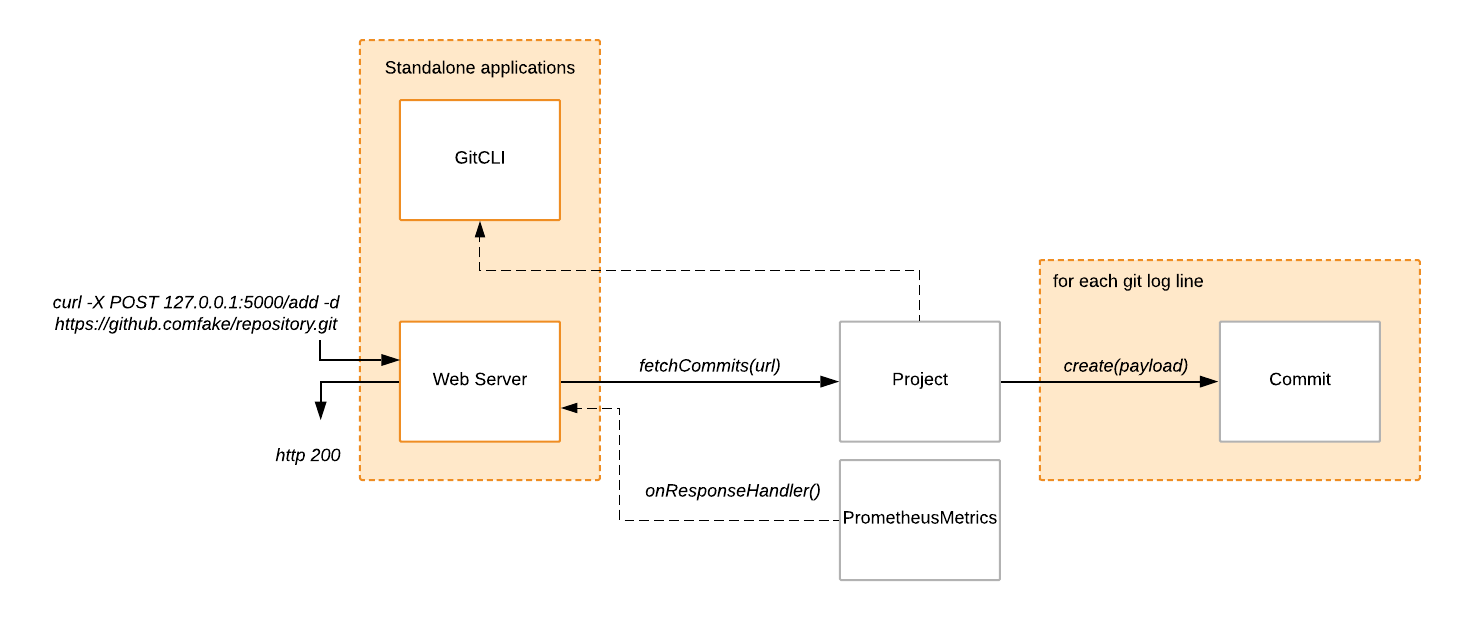
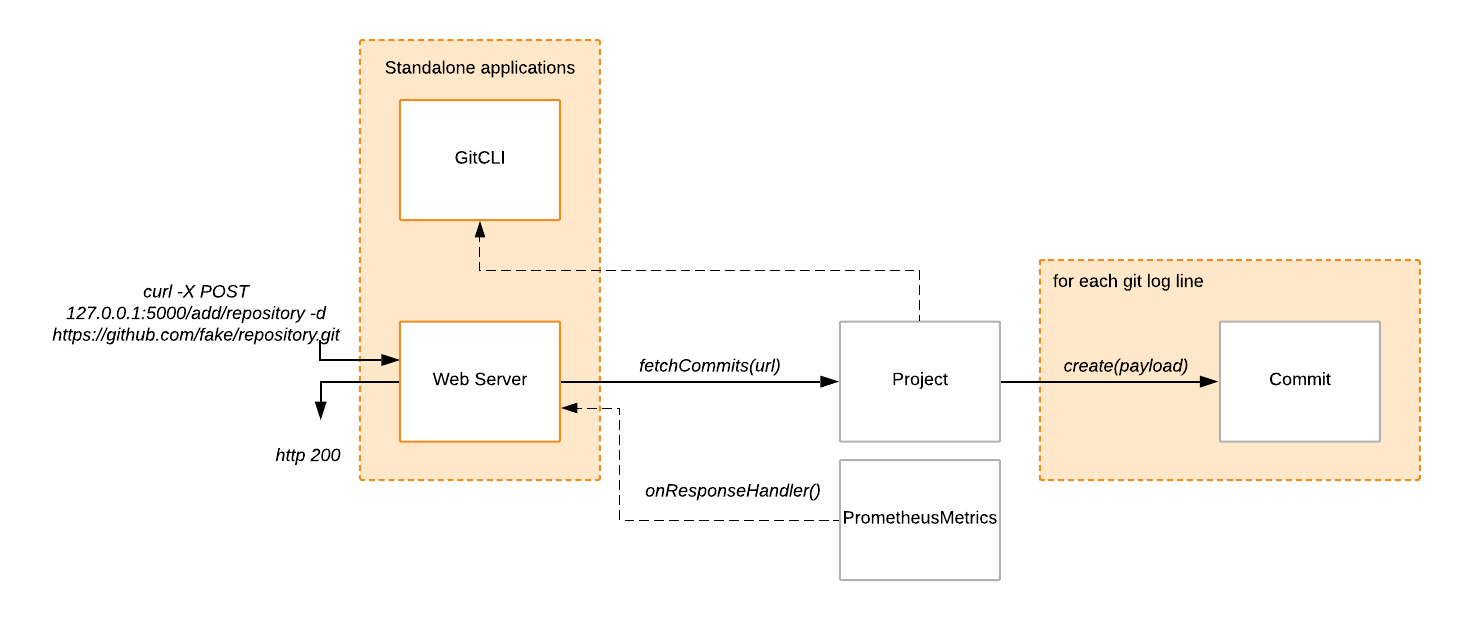
updated readme. updated static images.

Changed region(s): [[0.0308, 0.4597, 0.2466, 0.5516]]

diff --git a/README.md b/README.md
@@ -1,19 +1,19 @@
 # git-monitoring-server
 
 ## Architecture diagrams
-There are three parts to this project's architecture: the Git CLI application, the web server application, and the provisioning of both applications and infrastructure surrounding them.
+There are three parts to this project's architecture: the Git Command Line Interface (CLI) application, the web server application, and the provisioning of both applications and infrastructure surrounding them.
 
 I have chosen to use Python since it would allow me to quickly iterate on both applications, and it is easy to dockerise.
 
 ### Git CLI
-The first part of the challenge consists of implementing a cli wrapper for `git log` functionality.
-That can be done with just one class, invoking two standard git cli commands without resorting to any web API.
+The first part of the challenge consists of implementing a CLI wrapper for `git log` functionality.
+That can be done with just one class, invoking two standard git CLI commands without resorting to any web API.
 ![GitCLI](static/gitcli.png)
 Given an HTTP/HTTPS git repository url, the tool returns a list containing relevant git log information such as the hash, author name, date, and message of the retrieved commits.
 The implementation details are on the [next section](###GitCLI).
 
 ### Web Server
-By leveraging this cli wrapper, the server is then just another thin layer that models the retrieved data. Any commit will belong to a project with a given name and url. Therefore, we must be able to model this concept through Project and Commit classes respectively.
+By leveraging this CLI wrapper, the server is then just another thin layer that models the retrieved data. Any commit will belong to a project with a given name and url. Therefore, we must be able to model this concept through Project and Commit classes respectively.
 
 #### Adding a project
 <details>
@@ -22,8 +22,9 @@ As such, when we ask for the commits of a given project, we must create a Commit
 ![add](static/add.png)
 </details>
 
-#### Instrumenting and add request
+#### Instrumenting an add request
 <details>
+
 Since we are handling HTTP requests, we must instrument how many requests is our server receiving, and how long is it taking to dispatch them. `prometheus` is a time series based, metrics aggregating service that lets us record and plot that information. 
 For this to happen, we need to attach some method callbacks so that when our HTTP requests are received, and our responses returned, we record the appropriate metrics.
 This is done when the python server is first launched.
@@ -42,14 +43,15 @@ The implementation details are on the [next section](##Web%20Server).
 
 #### Listing a project
 <details>
+
 The only thing left to do is to view a given project that has been added.
-This can be done as html text or JSON. There are [two server endpoints](##Web%20Server) that do this respectively.
+This can be done as html text or JSON. There are [two server endpoints](###Web%20Server) that do this respectively.
 
 What the server does is look at it's internal Project dictionary. If a project with the same name exists, it returns the stored information. 
 ![list](static/listapi.png)
 If the project is not found internally, the server returns an HTTP 404, while displaying an error page. 
 
-This means that the information we are listing back to the user will be a cached version of the repository `git log`. If the user wants to refresh this information, [the project needs to be added again](####%20Adding%20a%20project).
+This means that the information we are listing back to the user will be a cached version of the repository `git log`. If the user wants to update the git information, [the project needs to be added again](####%20Adding%20a%20project).
 </details>
 
 #### The full picture
@@ -58,7 +60,7 @@ This image displays all of the non-infrastructural parts (i.e. application code)
 
 ### Provisioning
 Other than the application code, there is the infrastructure surrounding the web server that supports metric scraping and displaying.
-All of the infrastructure is terraformed and dockerised. Additional files exist to support the infrastructure, such as a custom `prometheus.yml` and a `grafana` `dashboard.json`, which are also provisioned through `terraform`.
+All of the infrastructure is terraformed and dockerised. Additional files exist to support the infrastructure, such as a custom `prometheus.yml` and a `grafana-dashboard.json`, which are also provisioned through `terraform`.
 ![terraform](static/provisioning.png)
 
 
@@ -70,9 +72,9 @@ You must install:
 * pip 18.1
 * terraform v0.12.5+
 * docker 18.09.6+
-* I had to follow [this post install checklist](https://docs.docker.com/install/linux/linux-postinstall/) to ensure that dockerd/docker service was running. After doing so, my `DOCKER_HOST` was pointing to `127.0.0.1:2375` which is the default docker host for `terraform`.
+* I had to follow [this Linux post install checklist](https://docs.docker.com/install/linux/linux-postinstall/) to ensure that `dockerd` was running. After doing so, my `DOCKER_HOST` was pointing to `127.0.0.1:2375` which is my default docker host address for `terraform`. If you are using anything other than Linux, please ensure that `dockerd` is running and configure `terraform` accordingly via `TF_VARS`.
 
-First you must install all the required dependencies to be able to run this projec locally.
+First you must install all the required dependencies to be able to run this project locally.
 ```
 pip3 install -r requirements.txt
 ```
@@ -81,13 +83,13 @@ This should install everything you need for [GitCLI.py]() and [server.py]() to w
 ## Files and Modules
 <details><summary>Application code files</summary>
 
-* GitCLI.py - Command line wrapper for git operations.
-* GitCLITest.py - Unit tests for GitCLI.py.
-* Commit.py - Data Transfer Object (DTO) which stores *hash, commiter name, date, and message* information.
-* Project.py - "Mediator" class between `Commit.py` and `GitCLI.py`. Creates commit objects by fetching the information through the cli, and stores them in a dictionary.
-* ProjectTest.py - Unit tests for Project.py.
+* [GitCLI.py]() - Command line wrapper for git operations.
+* [GitCLITest.py]() - Unit tests for GitCLI.py.
+* [Commit.py]() - Data Transfer Object (DTO) which stores *hash, commiter name, date, and message* information.
+* [Project.py]() - Mediator class between [Commit.py]() and [GitCLI.py](). Creates commit objects by fetching the information through the CLI, and stores them in a dictionary.
+* [ProjectTest.py]() - Unit tests for Project.py.
 * server.py - Stateful object that receives requests, through different routes (see below). It holds a dictionary of Project objects, each object being created after being added to the server.
-* `prometheus`Metrics.py - Helper class that records `prometheus` metrics per request received by the server.
+* [PrometheusMetrics.py]() - Helper class that records `prometheus` metrics per request received by the server.
 * [requirements.txt]() - `pip3` list of dependencies for GitCLI.py and server.py.
 </details>
 <details><summary>Terraform files</summary>
@@ -155,7 +157,7 @@ This should install everything you need for [GitCLI.py]() and [server.py]() to w
 
 ## Implementation
 ### GitCLI
-The command line tool allows you to get all the commit messages, in `pretty` format ([Git Docs](https://git-scm.com/book/en/v2/Git-Basics-Viewing-the-Commit-History)), given an http git repository url.
+The command line tool allows you to get all the commit messages, in `pretty` format ([Git Docs](https://git-scm.com/book/en/v2/Git-Basics-Viewing-the-Commit-History)), given an HTTP/HTTPS git repository url.
 You can use the GitCLI tool by running:
 ```
 python3 src/GitCLI.py <http_git_repository_url>
@@ -190,7 +192,7 @@ curl http://127.0.0.1:5000/list/:projectname
 
 You can list the entire project as JSON by running:
 ```
-/list/:projectname
+/json/:projectname
 curl http://127.0.0.1:5000/json/:projectname
 ```
 The `projectname` parameter has to match the name provided when running `/add/:projectname`.
@@ -199,7 +201,7 @@ The `projectname` parameter has to match the name provided when running `/add/:p
 
 I have tried to create simple UI using [bootstrap](https://getbootstrap.com/), and Python's [Jinja2](http://jinja.pocoo.org/) for templating. From the UI, you should be able to see the results of a `/list/:projectname` and `/json/:projectname` in your browser. The templates used are located under the `templates` folder.
 
-The following images display the results of both `/list` and `/json` requests from a browser for a project names [`spark`](https://github.com/apache/spark).
+The following images display the results of both `/list` and `/json` requests from a browser for a project named [`spark`](https://github.com/apache/spark).
 <details>
 <summary>User Interface Screenshots</summary>
 
@@ -222,7 +224,7 @@ I provide a `prometheus.yml` config file, which is passed onto the `prometheus` 
 
 ### Dockerfile
 
-I simply created a docker image that which runs python 3 but installs my `requirements.txt` through `pip3`. After that, I expose a port which is provided as a parameter to listen for the server requests.
+I simply created a docker image which runs python 3 and installs my `requirements.txt` through `pip3`. After that, I expose a port which is provided as a parameter to listen for the server requests.
 
 <details><summary>Dockerfile</summary>
 
@@ -242,29 +244,29 @@ CMD ["python3", "./server.py"]
 
 ### Terraform
 #### What is provisioned
-Every piece is provision through `terraform` using docker containers and other types of resources:
-* `web server` docker container instance running the image described above
-* `prometheus` docker container instance
-* `prometheus.yml` config file
-* `grafana` docker container instance
-* `grafana` data provider (`prometheus` instance)
-* `grafana-dashboard-template1.json` dashboard template
+Every piece is provisioned through `terraform` using `docker` containers and other types of resources:
+* `web server` docker container instance running the image described above.
+* `prometheus` docker container instance.
+* `prometheus.yml` config file.
+* `grafana` docker container instance.
+* `grafana` data provider (`prometheus` instance).
+* `grafana-dashboard-template1.json` dashboard template.
 
 #### Container specific ports
-All of these containers can be access by using your `DOCKER_HOST` ip address, followed by these ports:
-1. The web server instance is expecting access through port `5000`
-2. The `prometheus` instance is expecting access through port `9090`
-3. The `grafana` instance is expecting access through port `3000`
+All of these containers can be accessed by using your `DOCKER_HOST` ip address, followed by these ports:
+1. The `web server` instance is expecting access through port `5000`.
+2. The `prometheus` instance is expecting access through port `9090`.
+3. The `grafana` instance is expecting access through port `3000`.
 
 #### How to run
 I provide two `bash` scripts for convenience in deploying (`deploy.sh`) and tearing down (`teardown.sh`) the infrastructure in an easier fashion. 
 
 Under the hood, the `deploy.sh` script does the following, in order:
-* build the web server image if it does not exist locally
+* build the `web server` image if it does not exist locally
 * run `terraform init` on the `infrastructure` folder if it has not been initialised
 * run `terraform apply --auto-approve` on the `infrastructure` folder twice.
 
-The reason for running `terraform apply` twice is that `terraform` fails to connect to `grafana` via tcp on port 3000 to attach `prometheus` as a data provider, and to provision the dashboard template. I could not find a work around this issue and as such my solution was to run the command twice.
+The reason for running `terraform apply` twice is that `terraform` fails to connect to `grafana` via tcp on port `3000` to attach `prometheus` as a data provider, and to provision the dashboard template. I could not find a work around this issue and as such my solution was to run the command twice.
 
 `terraform` will output the ip addresses and ports of all the instances described above once completed.
 
@@ -276,14 +278,14 @@ As such, I do a text replacement on this file, replacing a `server-ip` token wit
 
 #### Test Suite
 
-I provide a `testSuite.py` file that performs a series of operations on the web-server, just for convenience, so that I could populate data onto `grafana` without tending to the computer, mimmicking what could happen in real life. 
+I provide a `testSuite.py` file that performs a series of operations on the web-server, just for convenience, so that I could populate data onto `prometheus` and `grafana` without tending to the computer, mimmicking what could happen in real life. 
 
-The script uses three different repository URLs, with different commit list sizes:
+The script uses three different repository URLs, with different commit list sizes at the time of writing this document:
 * joaopccosta/effective-bassoon - 2 commits
 * chrislgarry/Apollo-11 - 308 commits
 * apache/spark - 24,788 commits
 
-It runs *n* operations, provided as the first argument on the command line, waiting for *[1s, 60s]* between operations at random. The operations are random in terms of web server route *(add|list|json)*, and in terms of the repositories mentioned above.
+It runs *n* `web server` requests, where *n* is the first argument on the command line, waiting for *[1s, 60s]* between operations at random. The operations are random in terms of web server route *(add|list|json)*, and in terms of the repositories mentioned above.
 
 
 
@@ -317,7 +319,9 @@ Running ['curl', '-s', '-X', 'POST', 'http://127.0.0.1:5000/add/spark', '-d', 'h
 
 ### Grafana
 
-`grafana` lets us visualise `prometheus` queries in a much cleaner and persistent may. I have provisioned it through `terraform`, although I kept the default credentials `admin:admin`, since all we are doing here is visualising non-sensitive data.
+`grafana` lets us visualise `prometheus` queries in a much cleaner and persistent may. I have provisioned the following dashboard through `terraform`.
+
+I have kept the default credentials `admin:admin`, since all we are doing  is visualising non-sensitive data.
 
 The following dashboard and panels are provisioned through `terraform` by passing `grafana-dashboard-template1.json` dashboard template mentioned above. 
 ![dashboards](static/grafana.png)
@@ -367,10 +371,10 @@ sum(rate(request_latency_seconds_sum{endpoint=~"/json/.+"}[5m])) /
 ## Where to go next
 The following points explain potential areas where I could continue working on this project.
 #### Web UI
-Web UI design and implementation is definitely not one of my areas of expertise, as I have never had the need to work with it. As such, creating a form to add projects through the browser UI should be the next step to improve the application.
+Web UI design and implementation is definitely not one of my areas of expertise,since I have never had the need to work with it. As such, creating a form to add projects through the browser UI should be the next step to improve the application, eliminating the need to `curl` the requests.
 
 #### Dockerhub images
-One of the things that I haven't managed to provision through `terraform` was to use my public docker images from dockerhub. This repository does have a git hook on dockerhub, so that any push to the release branch (master), triggers a build for the Dockerfile on dockerhub. I am a big fan of continuous integration and deployment, and as such I should leverage this dockerhub capability for greater automation of the project.
+One of the things that I have not managed to provision through `terraform` was to use my [public docker images from dockerhub](https://cloud.docker.com/u/joaopccosta/repository/docker/joaopccosta/git-monitoring-server). This repository does have a git hook on dockerhub, so that any push to the release branch (master), triggers a build of the Dockerfile in dockerhub. I am a big fan of continuous integration and deployment and as such I should leverage this dockerhub capability for greater automation of the project.
 
 #### Ephemeral data
 If the web server container is restarted for some reason, the added projects are wiped from the system. Adding a containerised database should be the next step for this application to achieve data persistence.
@@ -379,5 +383,9 @@ If the web server container is restarted for some reason, the added projects are
 By adding a database, to reduce response time, an in-memory cache such as memcached or redis could be added to improve response times. One would also have to consider how often should the cache be invalidated, so that you reply to the user with the latest commit info and not with an off-sync version of the `git log`.
 
 #### Horizontal scaling
-From this point, the next step should be to allow multiple web-servers. To achieve this, one would use a load balancer, perhaps HAProxy of NGINX are good examples.
+From this point, the next step should be to allow multiple web-servers. To achieve this, one would use a load balancer, perhaps `HAProxy` or `nginx` are good dockerised candidates.
 In addition, one could also provision for database read-replicas at this point, to take away some of the load from the master database.
+All in all, this would be the approach I would take to ensure greater availability and fault tolerance.
+
+---
+Thank you for reading. 🤓
